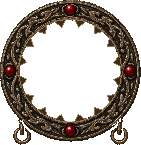
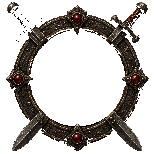
Use custom-illustrated class HUD portrait medallions with bare portrait inside

diff --git a/src/views/vassal-life-hud-pixi.js b/src/views/vassal-life-hud-pixi.js
@@ -32,7 +32,7 @@ const CREST = Object.freeze({
   // on the left and the Save & menu button (x ≥ 2010) on the right.
   pivot: Object.freeze({ x: 712, y: 74 }),
   bar: Object.freeze({ x: 620, y: 74, width: 1080, height: 65 }),
-  medallion: Object.freeze({ cx: 560, cy: 111, ring: 141, portrait: 98 }),
+  medallion: Object.freeze({ cx: 560, cy: 111, ring: 154, portrait: 106 }),
   life: Object.freeze({ x: 652, y: 66, width: 170, unit: 1.4 }),
   pendant: Object.freeze({ x: 836, y: 111, unit: 1.15, minWidth: 104, maxWidth: 200 }),
   stats: Object.freeze({ x: 1000, y: 68, width: 68, height: 63, gap: 6, unit: 1.1, studY: 7, bodyY: 41 }),
@@ -52,7 +52,6 @@ const HUD_PIECES = Object.freeze(['lintel-cap-left', 'lintel-cap-right', 'lintel
 // Class identity lives in the portrait ring: Warlord gets ruby studs and iron
 // teeth on a jagged aperture, Philosopher sapphire studs and a smooth ivory bead.
 const MEDALLION = Object.freeze({ warrior: 'medallion-warrior', scholar: 'medallion-scholar' });
-const MEDALLION_TINT = Object.freeze({ warrior: 0xffe2da, scholar: 0xe2e8ff });
 // 5-slice cuts in stored px: [fixed | stretch | fixed centre | stretch | fixed].
 const SLICES = Object.freeze({
   'stat-plaque': [12, 20, 42, 50], pendant: [28, 45, 45, 60], tab: [16, 28, 52, 64],
@@ -248,18 +247,21 @@ export function createVassalLifeHudView({
       crest.addChild(bar);
     }
 
-    // ---- portrait medallion breaking the bar's left end, shaped per class ----
+    // ---- portrait medallion breaking the bar's left end, custom-illustrated per class ----
     const m = CREST.medallion;
+    const ringTex = tex(MEDALLION[classId] ?? 'medallion') ?? tex('medallion');
+    const hasPaintedRing = painted && !!ringTex;
     const portrait = createVassalPortraitView(vassal.portrait, {
       size: m.portrait, classId, founder: !!vassal.founderClassId,
-      borderColor: PALETTE.accent, shape: "circle", age: shown.age,
+      borderColor: PALETTE.accent, shape: "circle", bare: hasPaintedRing, age: shown.age,
     });
     portrait.position.set(m.cx - m.portrait / 2, m.cy - m.portrait / 2);
     crest.addChild(portrait);
-    const ringTex = tex(MEDALLION[classId] ?? 'medallion') ?? tex('medallion');
-    if (painted && ringTex) {
-      const ring = new PIXI.Sprite(ringTex); ring.position.set(m.cx - 70.25, m.cy - 70.75);
-      ring.tint = MEDALLION_TINT[classId] ?? 0xffffff; crest.addChild(ring);
+    if (hasPaintedRing) {
+      const ring = new PIXI.Sprite(ringTex);
+      ring.anchor.set(0.5);
+      ring.position.set(m.cx, m.cy);
+      crest.addChild(ring);
     } else {
       const ring = new PIXI.Graphics(); ring.lineStyle(5, FOUNDER_CLASSES[classId]?.accent ?? PALETTE.accent, 1).drawCircle(m.cx, m.cy, m.portrait / 2 + 2);
       crest.addChild(ring);

diff --git a/src/views/vassal-portrait-pixi.js b/src/views/vassal-portrait-pixi.js
@@ -17,6 +17,7 @@ export function createVassalPortraitView(portrait, {
   founder = false,
   borderColor,
   shape = "square",
+  bare = false,
   age = null,
   stage = getVassalPortraitStage(age),
 } = {}) {
@@ -27,16 +28,19 @@ export function createVassalPortraitView(portrait, {
   const portraitId=`legacy-0${index%8+1}`;
   root.portraitStage = stage;
   const texture=getChronicleTexture(`vassal-portraits-v1/${portraitId}${stage === "middle" ? "" : `-${stage}`}.png`);
-  const classArt = createClassPortraitArt(classId, {size,founder,texture});
-  if (classArt) {classArt.portraitStage=stage;return classArt;}
+  if (!bare) {
+    const classArt = createClassPortraitArt(classId, {size,founder,texture});
+    if (classArt) {classArt.portraitStage=stage;return classArt;}
+  }
   const ink = borderColor ?? RELIC.brass;
   if (shape === "circle") {
     const radius = size / 2;
-    if (texture) {
-      const sprite = new PIXI.Sprite(texture);
+    const painting = (founder && classId && getChronicleTexture(`vassal-class-v1/${classId}-founder.png`)) || texture;
+    if (painting) {
+      const sprite = new PIXI.Sprite(painting);
       sprite.width = sprite.height = size;
       const mask = new PIXI.Graphics();
-      mask.beginFill(0xffffff).drawCircle(radius, radius, radius - 3).endFill();
+      mask.beginFill(0xffffff).drawCircle(radius, radius, bare ? radius : radius - 3).endFill();
       sprite.mask = mask;
       root.addChild(sprite, mask);
     } else {
@@ -44,10 +48,12 @@ export function createVassalPortraitView(portrait, {
         outlineColor: ink,
       });
     }
-    const ring = new PIXI.Graphics();
-    ring.lineStyle(3.5, ink, 1).drawCircle(radius, radius, radius - 2);
-    ring.lineStyle(1.5, 0x111714, 0.55).drawCircle(radius, radius, radius - 5);
-    root.addChild(ring);
+    if (!bare) {
+      const ring = new PIXI.Graphics();
+      ring.lineStyle(3.5, ink, 1).drawCircle(radius, radius, radius - 2);
+      ring.lineStyle(1.5, 0x111714, 0.55).drawCircle(radius, radius, radius - 5);
+      root.addChild(ring);
+    }
     root.hitArea = new PIXI.Circle(radius, radius, radius);
     return root;
   }

diff --git a/images/dark-fantasy/chronicle-hud-frames-v1/build.py b/images/dark-fantasy/chronicle-hud-frames-v1/build.py
@@ -1,14 +1,14 @@
 #!/usr/bin/env python3
-"""Key, crop and nearest-reduce the Chronicle crest-bar HUD and multiplier sheets, then pack the atlas.
+"""Key, crop and nearest-reduce the Chronicle crest-bar HUD, class medallions and multiplier sheets, then pack the atlas.
 
     python images/dark-fantasy/chronicle-hud-frames-v1/build.py
 
-The generator returned flat-black sheets (`generated/hud-source.png` and
-`generated/multiplier-source.png`). The outside black and the medallion hole are
-keyed to transparency; dark recessed stone inside each piece stays opaque.
-Pieces are reduced 2:1 with nearest sampling and packed (2px extrusion, no
-trim/rotation) into images/sprite-sheets/chronicle-hud-frames.{png,json}.
-Requires Pillow.
+The generator returned flat-black sheets (`generated/hud-source.png`,
+`generated/class-medallions-source.png` and `generated/multiplier-source.png`).
+The outside black and the medallion apertures are keyed to transparency; dark
+recessed stone/metal inside each piece stays opaque. Pieces are reduced with
+nearest sampling and packed (2px extrusion, no trim/rotation) into
+images/sprite-sheets/chronicle-hud-frames.{png,json}. Requires Pillow.
 """
 import json
 from pathlib import Path
@@ -62,12 +62,7 @@ pieces['exp-groove-empty'] = empty
 
 
 def thin_medallion():
-    """Radially compress the carved band so the ring is visibly thinner.
-
-    Source pixels (2x stored) at radius 76..139 are resampled into 100..139, the
-    loops and outer lip beyond 139 are untouched, and the four amber studs are
-    pasted back unsquashed at the new band centre. Nearest sampling only.
-    """
+    """Radially compress the carved band so the neutral fallback ring is visibly thinner."""
     region = sheet.crop((36, 636, 332, 944)); bounds = region.getchannel('A').getbbox()
     region = region.crop(bounds)
     cx, cy = 140.5, 141.5          # ring centre in the cropped source
@@ -88,50 +83,38 @@ def thin_medallion():
     return out.resize((out.width // REDUCE, out.height // REDUCE), Image.Resampling.NEAREST)
 
 
-def recolor_studs(image, hue):
-    """Re-gem only the four stud discs (warm pixels inside each disc)."""
-    import colorsys
-    out = image.copy(); px = out.load()
-    for ux, uy in ((0, -1), (1, 0), (0, 1), (-1, 0)):
-        sx, sy = 70.25 + ux * 60, 70.75 + uy * 60
-        for y in range(int(sy - 8), int(sy + 9)):
-            for x in range(int(sx - 8), int(sx + 9)):
-                if (x - sx) ** 2 + (y - sy) ** 2 > 42: continue
-                r, g, b, a = px[x, y]
-                if not a or r < b + 25: continue
-                h, l, s_ = colorsys.rgb_to_hls(r / 255, g / 255, b / 255)
-                nr, ng, nb = colorsys.hls_to_rgb(hue, l, min(1, s_ * 1.1))
-                px[x, y] = (round(nr * 255), round(ng * 255), round(nb * 255), a)
-    return out
+# Custom-illustrated class portrait medallions (`generated/class-medallions-source.png`).
+class_med_source = Image.open(HERE / 'generated' / 'class-medallions-source.png').convert('RGB')
 
+def extract_class_medallion(box, hole_cx, hole_cy, r_in, r_out, extra_seeds=()):
+    crop = class_med_source.crop(box)
+    w, h = crop.size
+    cr, cg, cb = [band.point(lambda v: 255 if v >= 20 else 0) for band in crop.split()]
+    fg = Image.merge('RGB', (cr, cg, cb)).convert('L').point(lambda v: 255 if v > 0 else 0)
+    m = fg.copy()
+    # Solidify the main ring core (r_in..r_out) so dark pits inside the metal stay opaque
+    # and the inner/outer floodfills cannot leak across the ring.
+    ImageDraw.Draw(m).ellipse((hole_cx - r_out, hole_cy - r_out, hole_cx + r_out, hole_cy + r_out), fill=255)
+    inner_restore = Image.new('L', (w, h), 0)
+    ImageDraw.Draw(inner_restore).ellipse((hole_cx - r_in, hole_cy - r_in, hole_cx + r_in, hole_cy + r_in), fill=255)
+    m.paste(fg, mask=inner_restore)
+    for sx, sy in ((0, 0), (int(hole_cx), int(hole_cy)), *extra_seeds):
+        ImageDraw.floodfill(m, (sx, sy), 128)
+    rgba = crop.convert('RGBA')
+    rgba.putalpha(m.point(lambda v: 0 if v == 128 else 255))
+    # Center on the circular aperture so anchor (0.5, 0.5) aligns with (m.cx, m.cy).
+    R_CANVAS = 316
+    centered = Image.new('RGBA', (R_CANVAS * 2, R_CANVAS * 2), (0, 0, 0, 0))
+    centered.paste(rgba, (round(R_CANVAS - hole_cx), round(R_CANVAS - hole_cy)))
+    return centered.resize((154, 154), Image.Resampling.NEAREST)
 
-def jagged_rim(image, teeth=16):
-    """Warlord: iron teeth biting into the aperture (drawn crisply at stored size)."""
-    import math
-    out = image.copy(); d = ImageDraw.Draw(out)
-    cx, cy, r = 70.25, 70.75, 50.5
-    for i in range(teeth):
-        a = i * 2 * math.pi / teeth + math.pi / teeth
-        half = math.pi / teeth * .55
-        base1 = (cx + math.cos(a - half) * (r + 1), cy + math.sin(a - half) * (r + 1))
-        base2 = (cx + math.cos(a + half) * (r + 1), cy + math.sin(a + half) * (r + 1))
-        tip = (cx + math.cos(a) * (r - 6), cy + math.sin(a) * (r - 6))
-        d.polygon([base1, tip, base2], fill=(58, 44, 30, 255), outline=(150, 118, 76, 255))
-    return out
-
-
-def smooth_rim(image):
-    """Philosopher: a fine ivory inner bead line on the smooth bevel."""
-    out = image.copy(); d = ImageDraw.Draw(out)
-    cx, cy, r = 70.25, 70.75, 50.5
-    d.ellipse((cx - r, cy - r, cx + r, cy + r), outline=(214, 198, 160, 255), width=1)
-    return out
-
-
-thin = thin_medallion()
-pieces['medallion'] = thin
-pieces['medallion-warrior'] = jagged_rim(recolor_studs(thin, 0.995))
-pieces['medallion-scholar'] = smooth_rim(recolor_studs(thin, 0.60))
+pieces['medallion'] = thin_medallion()
+pieces['medallion-warrior'] = extract_class_medallion(
+    (20, 20, 618, 645), 299.1, 313.3, 202, 255, extra_seeds=((87, 87), (524, 86))
+)
+pieces['medallion-scholar'] = extract_class_medallion(
+    (653, 32, 1257, 668), 302.0, 306.1, 202, 262
+)
 
 
 # Multiplier twin-socket bar and emblem seals (`generated/multiplier-source.png`).

diff --git a/images/dark-fantasy/chronicle-hud-frames-v1/README.md b/images/dark-fantasy/chronicle-hud-frames-v1/README.md
@@ -24,3 +24,7 @@ Multiplier twin-socket bar and emblem seals (`generated/multiplier-source.png`):
 `mult-twin-left-{active,dormant}`, `mult-twin-right-{active,dormant}`,
 `mult-seal-output-{active,dormant}`, and `mult-seal-capacity-{active,dormant}`
 for `src/views/multiplier-fitting.js`.
+
+Custom class HUD portrait medallions (`generated/class-medallions-source.png`):
+`medallion-warrior` (hammered iron ring with crossed broadswords and ruby settings)
+and `medallion-scholar` (engraved bronze scrollwork ring with open codex and sapphire settings).
